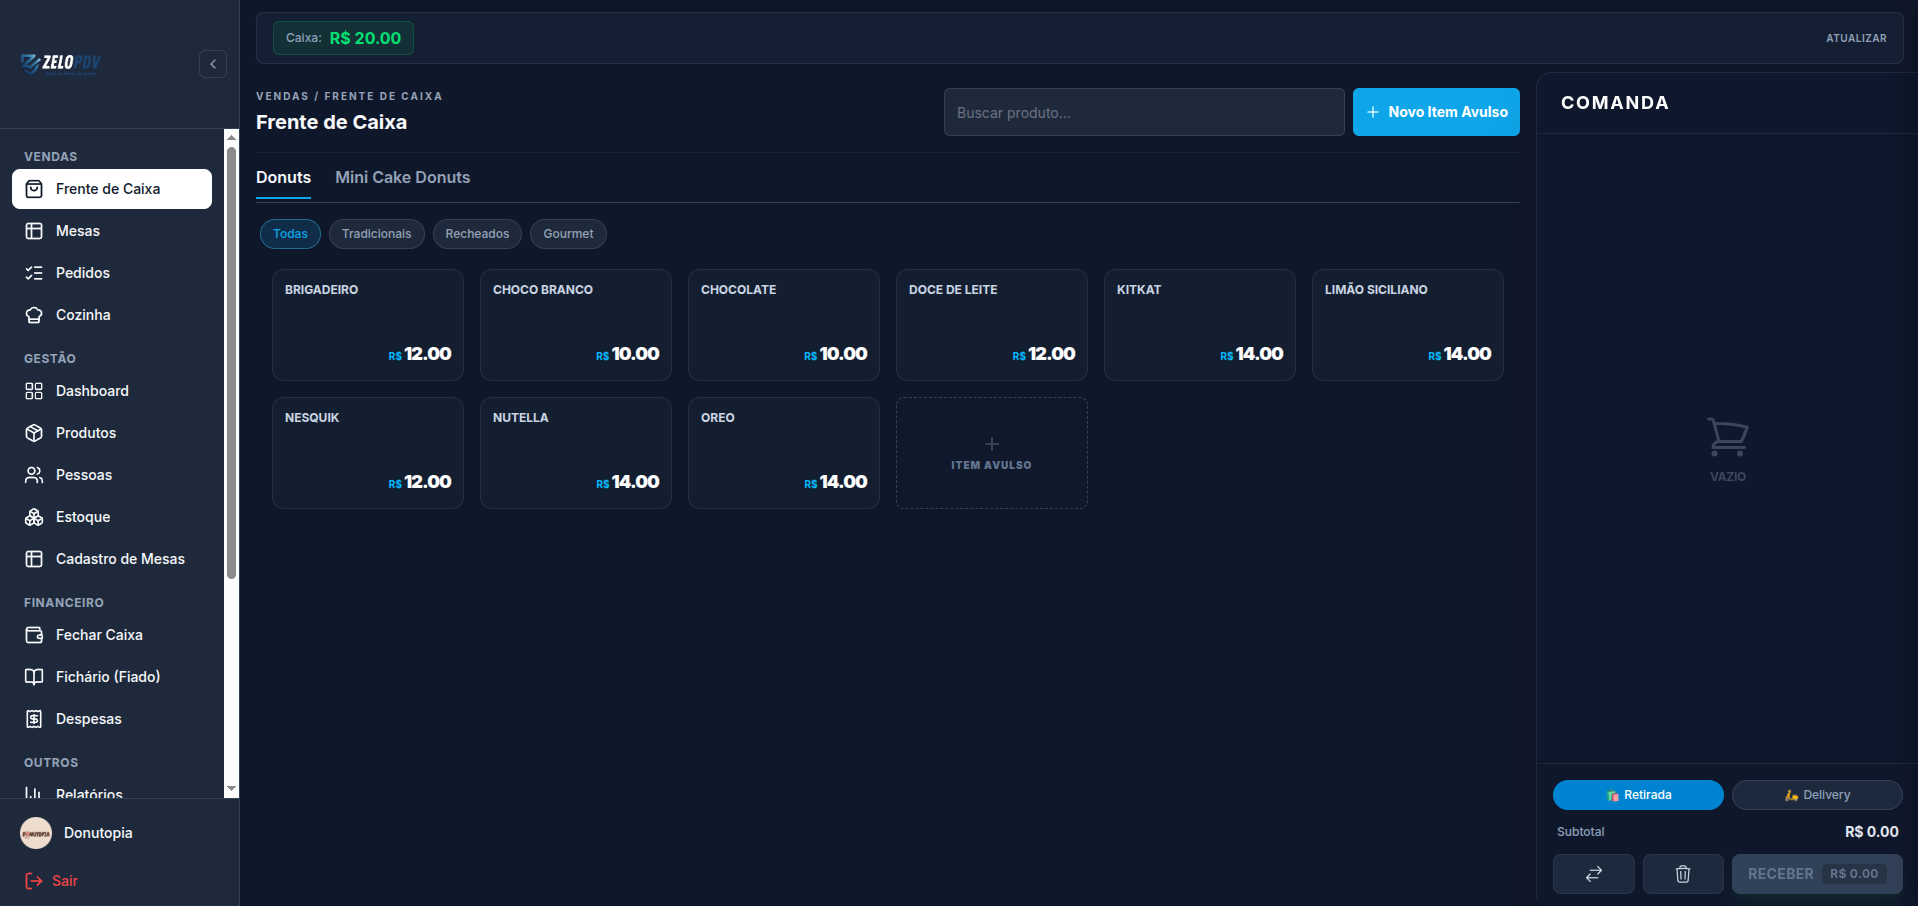
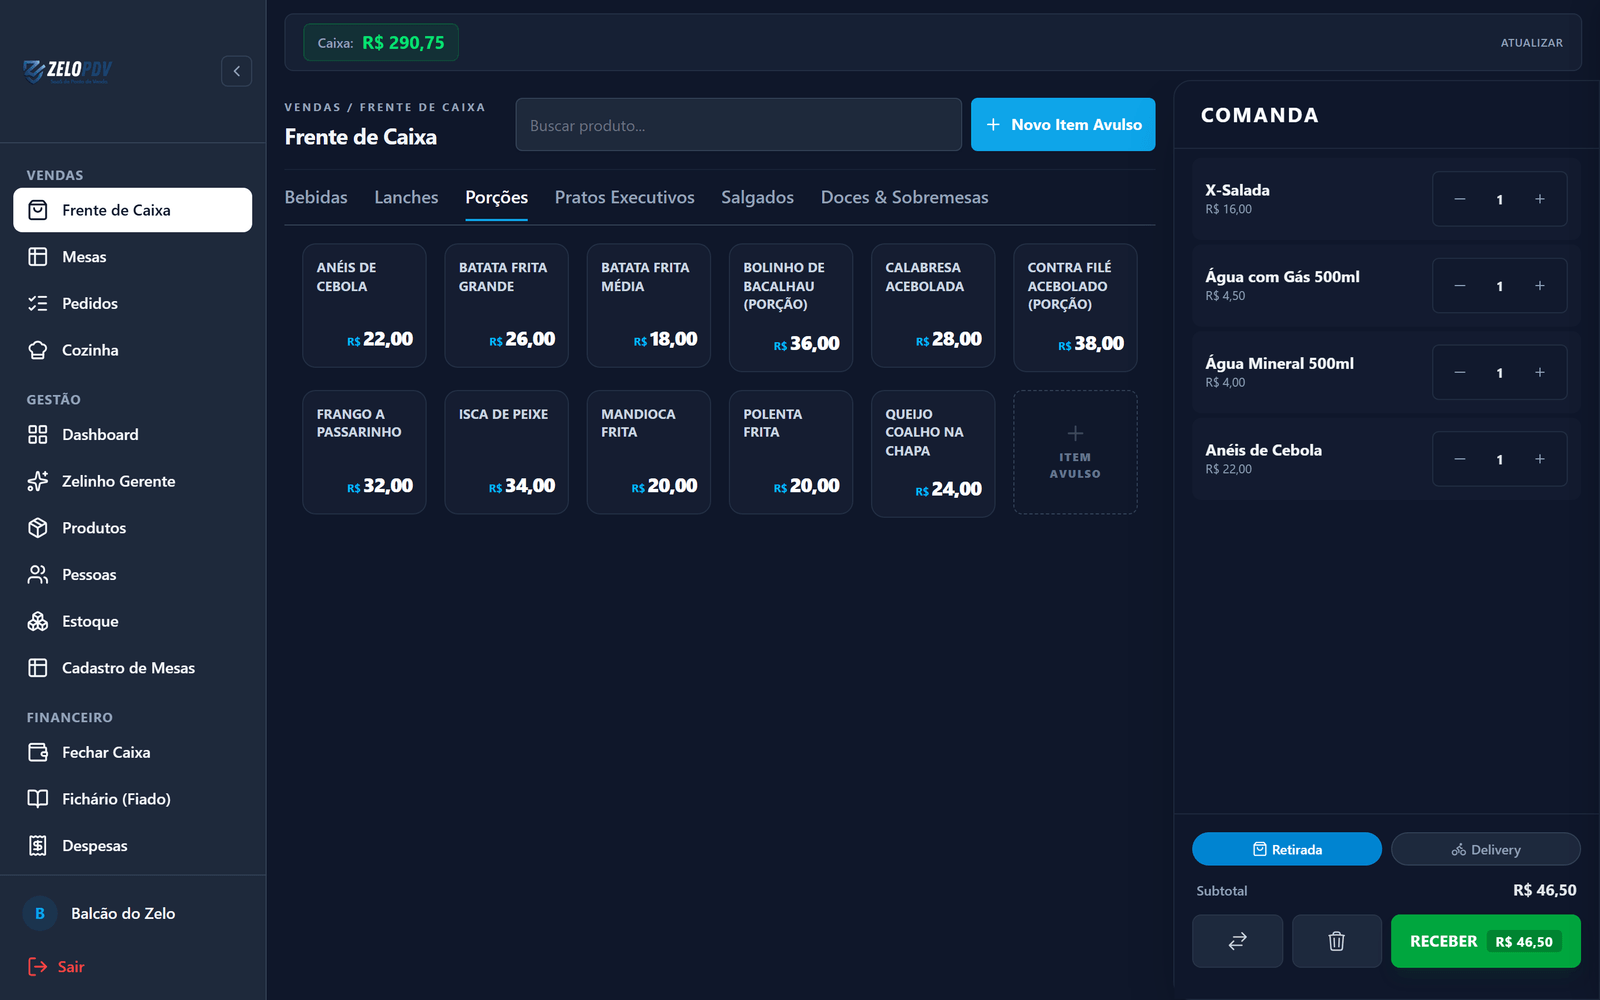
feat(landing): prints novos do sistema com a conta demo
Troca os prints de static/images/screenshots (frente de caixa com
comanda, financeiro com despesas, clientes com fiado, recorte de KPIs do
topo mobile, despesas) por capturas atuais da conta demo "Balcão do
Zelo", com dados fictícios e R$ em pt-BR. Ajusta width/height/alt e a
legenda do topo mobile (agora 30 dias). OG image com o print novo.

diff --git a/src/routes/+page.svelte b/src/routes/+page.svelte
@@ -265,12 +265,12 @@
         <figure class="hero-proof-mobile">
           <img
             src="/images/screenshots/financial-kpis-crop.webp"
-            alt="Tela do Zelo PDV mostrando receita líquida de R$ 5.166,90, vendas brutas e quantidade de vendas do dia."
+            alt="Tela do Zelo PDV mostrando receita líquida de R$ 21.373,50 nos últimos 30 dias, com vendas brutas, despesas e quantidade de vendas."
             width="806"
-            height="204"
+            height="188"
             loading="eager"
           />
-          <figcaption>Tela real do sistema: o que entrou e o que ficou no dia.</figcaption>
+          <figcaption>Tela real do sistema: o que entrou e o que sobrou no mês.</figcaption>
         </figure>
 
         <figure class="hero-shot">
@@ -282,9 +282,9 @@
             />
             <img
               src="/images/screenshots/dashboard-desktop.png"
-              alt="Painel do Zelo PDV com as vendas e o resultado do dia"
-              width="1918"
-              height="906"
+              alt="Frente de caixa do Zelo PDV com uma comanda aberta"
+              width="1600"
+              height="1000"
               loading="eager"
               fetchpriority="high"
               decoding="async"
@@ -348,9 +348,9 @@
                 />
                 <img
                   src="/images/screenshots/dashboard-desktop.png"
-                  alt="Frente de caixa do Zelo PDV com produtos e comanda."
-                  width="1918"
-                  height="906"
+                  alt="Frente de caixa do Zelo PDV com uma comanda aberta."
+                  width="1600"
+                  height="1000"
                   loading="lazy"
                   decoding="async"
                 />
@@ -386,8 +386,8 @@
                   <img
                     src="/images/screenshots/customers-screen.png"
                     alt="Controle de clientes e fiado no Zelo PDV."
-                    width="1696"
-                    height="699"
+                    width="1600"
+                    height="1000"
                     loading="lazy"
                     decoding="async"
                   />

diff --git a/src/lib/components/marketing/operationalProof.js b/src/lib/components/marketing/operationalProof.js
@@ -18,7 +18,7 @@ export const OPERATIONAL_PROOF_SCREENS = Object.freeze([
     key: 'dashboard',
     src: '/images/screenshots/dashboard-desktop.png',
     srcset: '/images/screenshots/dashboard-desktop-800.webp 800w, /images/screenshots/dashboard-desktop-1600.webp 1600w',
-    alt: 'Frente de caixa do Zelo PDV com produtos e comanda.',
+    alt: 'Frente de caixa do Zelo PDV com uma comanda aberta.',
     label: 'Frente de caixa',
   }),
 ]);
